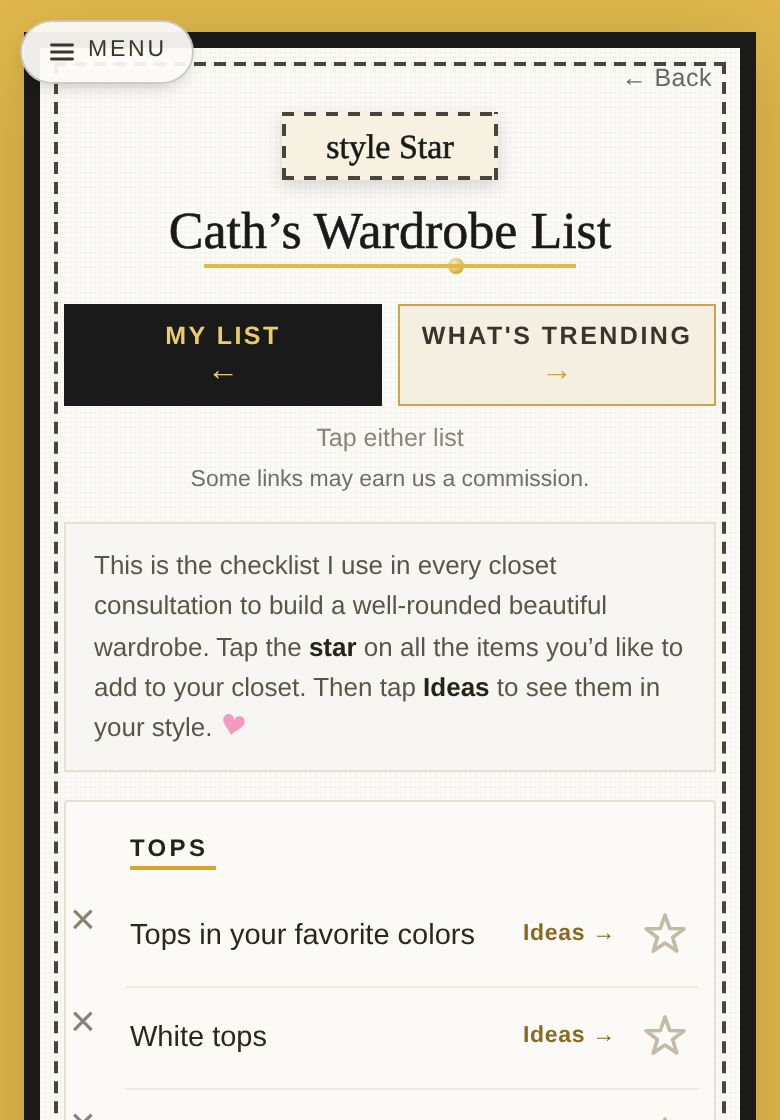
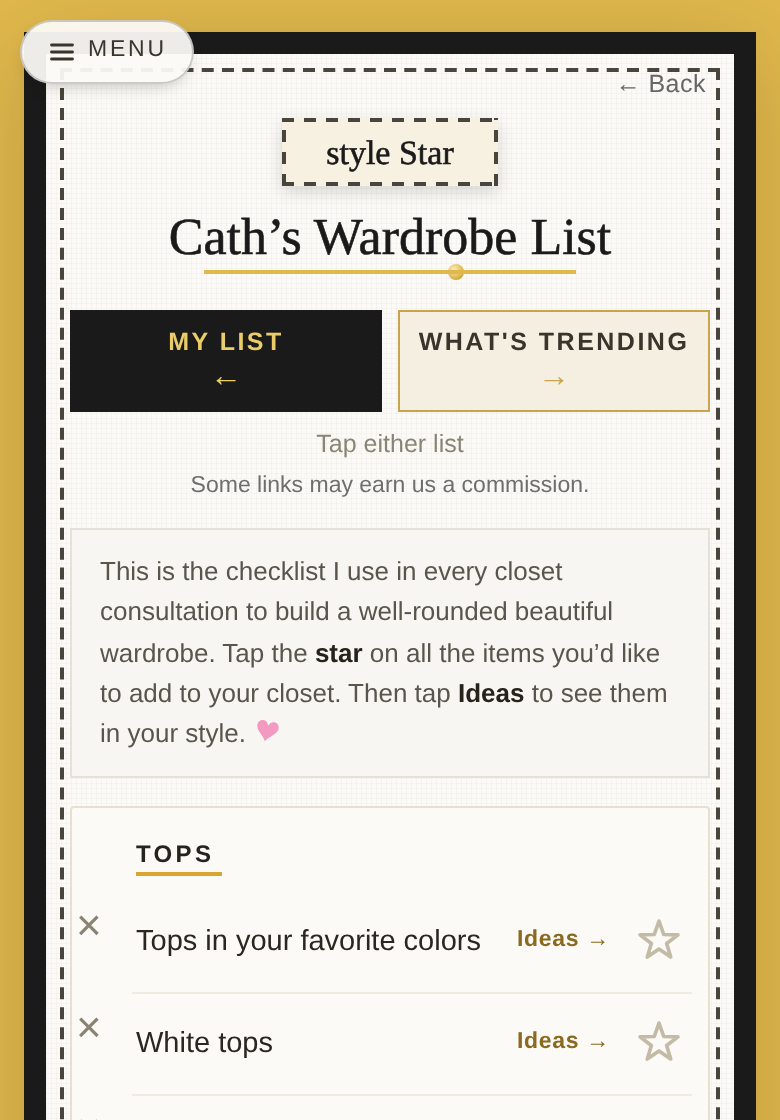
Wardrobe frame to 11px, the app's boutique weight (#810)
Her question: should the list/trending frames be thicker, maybe 11px like My
Story? Yes, and 11px is already the app's boutique weight, shared by My Story
and Shop your Style. Three surfaces now agree.

Two things the measurement decided.

1. The rule is shared with the wishlist, but the wishlist is NOT bumped. Its
   frame is already compound, 8px black plus the 5px gold rail band inside it,
   so roughly 13px of visual frame. It already reads at least as thick as the
   wardrobe's new 11, and the two will look more consistent after this, not
   less. Bumping it would also have cost 6px of content width on the one
   surface that cannot spare it: the empty-state wishing button, measured this
   morning at 11px of headroom, which 11px of frame would have cut to 5px, the
   variance zone that broke the tagline on her real phone.

2. A thicker frame costs 6px of row width, and that made item names wrap at
   375 (2 to 4 of them, depending on how they are counted). Extending the
   existing narrow-width row trim from 374px up to 389px gives the space back.
   Measured after the change: 0 names wrap at 390 AND at 375, so nothing
   regresses and the frame is thicker. 360 keeps its own long-standing wrap.

Verified: velvet 32 green, plus the name-wrap sweep at 390/375/360 with no
sideways overflow at any width.

Claude-Session: https://claude.ai/code/session_015YyXAYypxt8fZH3TEVX95i

diff --git a/scratchpad/framefit.js b/scratchpad/framefit.js
@@ -1,0 +1,66 @@
+// Her question: should the wardrobe/wishlist frame go 8px -> 11px, matching
+// My Story and Shop your Style?
+//
+// ⚠ The rule is SHARED by .ss.wardrobe-mirror and .ss.wishlist-mirror, so any
+// change hits Your Wishlist too -- and a thicker border eats content width.
+// This morning the wishlist empty-state button was measured as needing 249px
+// with 260px available (11px headroom). Every 1px of border costs 2px of width,
+// so 11px would leave 5px -- inside the browser text-measurement variance that
+// broke the tagline on her real phone. Measure it, do not assume.
+const chromium = (await import('/opt/node22/lib/node_modules/playwright/index.js')).default.chromium;
+import http from 'http';
+import fs from 'fs';
+import path from 'path';
+const ROOT = path.resolve(import.meta.dirname, '..');
+const server = http.createServer((req, res) => {
+  const f = path.join(ROOT, req.url === '/' ? 'index.html' : decodeURIComponent(req.url.split('?')[0].slice(1)));
+  if (!f.startsWith(ROOT) || !fs.existsSync(f) || fs.statSync(f).isDirectory()) { res.writeHead(404); return res.end(); }
+  res.writeHead(200); fs.createReadStream(f).pipe(res);
+});
+await new Promise(r => server.listen(0, r));
+const base = 'http://127.0.0.1:' + server.address().port;
+const browser = await chromium.launch({ executablePath: '/opt/pw-browsers/chromium' });
+
+for (const w of [390, 375, 360]) {
+  console.log(`\n=== ${w}px ===`);
+  for (const px of [8, 9, 10, 11]) {
+    const page = await browser.newPage({ viewport: { width: w, height: 800 } });
+    await page.goto(base + '/', { waitUntil: 'load' });
+    await page.evaluate(() => localStorage.setItem('ss_data', JSON.stringify({ userName: 'Cath', answers: Array(12).fill(6), topArchNames: ['Timeless Classic'], portrait: 'x', motto: 'y' })));
+    await page.reload({ waitUntil: 'load' });
+    await page.waitForTimeout(2600);
+    const r = await page.evaluate(async (px) => {
+      const st = document.createElement('style');
+      st.textContent = `.ss.wardrobe-mirror,.ss.wishlist-mirror{border-width:${px}px!important}`;
+      document.head.appendChild(st);
+      // the wishlist empty state is the width-critical surface
+      openWishlist();
+      await new Promise(r => setTimeout(r, 600));
+      const btn = document.querySelector('#s-wishlist .we-addlnk');
+      const span = btn.querySelector('.wab-t');
+      const wrap = btn.parentElement;
+      const avail = Math.floor(wrap.getBoundingClientRect().width);
+      const c = span.cloneNode(true);
+      c.style.cssText = 'position:absolute;white-space:nowrap;visibility:hidden;left:-9999px';
+      c.style.font = getComputedStyle(span).font;
+      c.style.letterSpacing = getComputedStyle(span).letterSpacing;
+      document.body.appendChild(c);
+      const need = Math.ceil(c.getBoundingClientRect().width) + 18; // + padding & borders
+      c.remove();
+      const rg = document.createRange(); rg.selectNodeContents(span);
+      const lines = [...new Set([...rg.getClientRects()].map(x => Math.round(x.top)))].length;
+      // and the wardrobe's own content width
+      openWardrobe('list');
+      await new Promise(r => setTimeout(r, 500));
+      const row = document.querySelector('#s-wardrobe .wdr-item');
+      return {
+        avail, need, headroom: avail - need, lines,
+        wdrRow: row ? Math.round(row.getBoundingClientRect().width) : null,
+      };
+    }, px);
+    const verdict = r.lines === 1 ? (r.headroom >= 10 ? 'SAFE' : 'THIN — inside browser variance') : 'WRAPS';
+    console.log(`  frame ${px}px -> wishlist button ${r.avail}px avail / ${r.need}px needed, headroom ${r.headroom}px, ${r.lines} line(s)  [${verdict}]   wardrobe row ${r.wdrRow}px`);
+    await page.close();
+  }
+}
+await browser.close(); server.close();

diff --git a/scratchpad/frame11.js b/scratchpad/frame11.js
@@ -1,0 +1,36 @@
+const chromium = (await import('/opt/node22/lib/node_modules/playwright/index.js')).default.chromium;
+import http from 'http'; import fs from 'fs'; import path from 'path';
+const ROOT = path.resolve(import.meta.dirname, '..');
+const server = http.createServer((req,res)=>{const f=path.join(ROOT, req.url==='/'?'index.html':decodeURIComponent(req.url.split('?')[0].slice(1)));if(!f.startsWith(ROOT)||!fs.existsSync(f)||fs.statSync(f).isDirectory()){res.writeHead(404);return res.end();}res.writeHead(200);fs.createReadStream(f).pipe(res);});
+await new Promise(r=>server.listen(0,r));
+const base='http://127.0.0.1:'+server.address().port;
+const browser=await chromium.launch({executablePath:'/opt/pw-browsers/chromium'});
+for(const w of [390,375,360]){
+  const page=await browser.newPage({viewport:{width:w,height:820},deviceScaleFactor:2});
+  await page.goto(base+'/',{waitUntil:'load'});
+  await page.evaluate(()=>localStorage.setItem('ss_data',JSON.stringify({userName:'Cath',answers:Array(12).fill(6),topArchNames:['Timeless Classic'],portrait:'x',motto:'y'})));
+  await page.reload({waitUntil:'load'});await page.waitForTimeout(2600);
+  const r=await page.evaluate(async()=>{
+    openWardrobe('list'); await new Promise(r=>setTimeout(r,700));
+    let wrapped=0,checked=0;
+    for(const n of document.querySelectorAll('#s-wardrobe .wdr-item')){
+      const t=n.querySelector('.wdr-name')||n; const txt=t.childNodes[0];
+      if(!txt||txt.nodeType!==3) continue;
+      const rg=document.createRange(); rg.selectNodeContents(t); checked++;
+      if([...new Set([...rg.getClientRects()].map(x=>Math.round(x.top)))].length>1) wrapped++;
+    }
+    const b=getComputedStyle(document.querySelector('.ss')).borderTopWidth;
+    const wl=await (async()=>{openWishlist();await new Promise(r=>setTimeout(r,500));
+      return getComputedStyle(document.querySelector('.ss')).borderTopWidth;})();
+    return {wrapped,checked,wardrobeFrame:b,wishlistFrame:wl,over:document.documentElement.scrollWidth>window.innerWidth};
+  });
+  console.log(`${w}: wardrobe frame ${r.wardrobeFrame}, wishlist frame ${r.wishlistFrame}, ${r.wrapped}/${r.checked} names wrap, overflow ${r.over}`);
+  if(w===390){
+    await page.evaluate(()=>openWardrobe('list')); await page.waitForTimeout(600);
+    await page.screenshot({path:path.join(ROOT,'scratchpad','frame11-list.png'),clip:{x:0,y:0,width:w,height:520}});
+    await page.evaluate(()=>wardrobeTab('trend')); await page.waitForTimeout(500);
+    await page.screenshot({path:path.join(ROOT,'scratchpad','frame11-trend.png'),clip:{x:0,y:0,width:w,height:520}});
+  }
+  await page.close();
+}
+await browser.close();server.close();

diff --git a/scratchpad/framefix.js b/scratchpad/framefix.js
@@ -1,0 +1,32 @@
+const chromium = (await import('/opt/node22/lib/node_modules/playwright/index.js')).default.chromium;
+import http from 'http'; import fs from 'fs'; import path from 'path';
+const ROOT = path.resolve(import.meta.dirname, '..');
+const server = http.createServer((req,res)=>{const f=path.join(ROOT, req.url==='/'?'index.html':decodeURIComponent(req.url.split('?')[0].slice(1)));if(!f.startsWith(ROOT)||!fs.existsSync(f)||fs.statSync(f).isDirectory()){res.writeHead(404);return res.end();}res.writeHead(200);fs.createReadStream(f).pipe(res);});
+await new Promise(r=>server.listen(0,r));
+const base='http://127.0.0.1:'+server.address().port;
+const browser=await chromium.launch({executablePath:'/opt/pw-browsers/chromium'});
+for(const w of [390,375,360]){
+  const page=await browser.newPage({viewport:{width:w,height:800}});
+  await page.goto(base+'/',{waitUntil:'load'});
+  await page.evaluate(()=>localStorage.setItem('ss_data',JSON.stringify({userName:'Cath',answers:Array(12).fill(6),topArchNames:['Timeless Classic'],portrait:'x',motto:'y'})));
+  await page.reload({waitUntil:'load'});await page.waitForTimeout(2600);
+  const r=await page.evaluate(async ()=>{
+    const st=document.createElement('style');
+    st.textContent='.ss.wardrobe-mirror,.ss.wishlist-mirror{border-width:11px!important}#s-wishlist .wl-empty{padding-left:0!important;padding-right:0!important}';
+    document.head.appendChild(st);
+    openWishlist(); await new Promise(r=>setTimeout(r,600));
+    const btn=document.querySelector('#s-wishlist .we-addlnk'), span=btn.querySelector('.wab-t');
+    const avail=Math.floor(btn.parentElement.getBoundingClientRect().width);
+    const c=span.cloneNode(true); c.style.cssText='position:absolute;white-space:nowrap;visibility:hidden;left:-9999px';
+    c.style.font=getComputedStyle(span).font; c.style.letterSpacing=getComputedStyle(span).letterSpacing;
+    document.body.appendChild(c); const need=Math.ceil(c.getBoundingClientRect().width)+18; c.remove();
+    const rg=document.createRange(); rg.selectNodeContents(span);
+    const lines=[...new Set([...rg.getClientRects()].map(x=>Math.round(x.top)))].length;
+    const card=document.querySelector('#s-wishlist .wl-card').getBoundingClientRect();
+    const br=btn.getBoundingClientRect();
+    return {avail,need,head:avail-need,lines,inside:br.left>=card.left-0.5&&br.right<=card.right+0.5};
+  });
+  console.log(`${w}: avail ${r.avail} / need ${r.need} -> headroom ${r.head}px, ${r.lines} line(s), inside card: ${r.inside}`);
+  await page.close();
+}
+await browser.close();server.close();

diff --git a/scratchpad/wdrnames2.js b/scratchpad/wdrnames2.js
@@ -1,0 +1,35 @@
+const chromium = (await import('/opt/node22/lib/node_modules/playwright/index.js')).default.chromium;
+import http from 'http'; import fs from 'fs'; import path from 'path';
+const ROOT = path.resolve(import.meta.dirname, '..');
+const server = http.createServer((req,res)=>{const f=path.join(ROOT, req.url==='/'?'index.html':decodeURIComponent(req.url.split('?')[0].slice(1)));if(!f.startsWith(ROOT)||!fs.existsSync(f)||fs.statSync(f).isDirectory()){res.writeHead(404);return res.end();}res.writeHead(200);fs.createReadStream(f).pipe(res);});
+await new Promise(r=>server.listen(0,r));
+const base='http://127.0.0.1:'+server.address().port;
+const browser=await chromium.launch({executablePath:'/opt/pw-browsers/chromium'});
+const CASES=[
+  {n:'10px, no trim change', css:'.ss.wardrobe-mirror{border-width:10px!important}'},
+  {n:'11px, no trim change', css:'.ss.wardrobe-mirror{border-width:11px!important}'},
+  {n:'11px + trim extended to 389', css:'.ss.wardrobe-mirror{border-width:11px!important}@media(max-width:389px){#s-wardrobe .wdr-item{gap:0 6px;padding-left:0;padding-right:0}}'},
+];
+for(const w of [390,375]){
+  for(const c of CASES){
+    const page=await browser.newPage({viewport:{width:w,height:900}});
+    await page.goto(base+'/',{waitUntil:'load'});
+    await page.evaluate(()=>localStorage.setItem('ss_data',JSON.stringify({userName:'Cath',answers:Array(12).fill(6),topArchNames:['Timeless Classic'],portrait:'x',motto:'y'})));
+    await page.reload({waitUntil:'load'});await page.waitForTimeout(2600);
+    const r=await page.evaluate(async(css)=>{
+      const st=document.createElement('style'); st.textContent=css; document.head.appendChild(st);
+      openWardrobe('list'); await new Promise(r=>setTimeout(r,700));
+      let wrapped=0,checked=0;
+      for(const n of document.querySelectorAll('#s-wardrobe .wdr-item')){
+        const t=n.querySelector('.wdr-name')||n; const txt=t.childNodes[0];
+        if(!txt||txt.nodeType!==3) continue;
+        const rg=document.createRange(); rg.selectNodeContents(t);
+        checked++; if([...new Set([...rg.getClientRects()].map(x=>Math.round(x.top)))].length>1) wrapped++;
+      }
+      return {wrapped,checked};
+    },c.css);
+    console.log(`${w}  ${c.n.padEnd(30)} -> ${r.wrapped}/${r.checked} wrap`);
+    await page.close();
+  }
+}
+await browser.close();server.close();

diff --git a/scratchpad/wdrnames.js b/scratchpad/wdrnames.js
@@ -1,0 +1,37 @@
+const chromium = (await import('/opt/node22/lib/node_modules/playwright/index.js')).default.chromium;
+import http from 'http'; import fs from 'fs'; import path from 'path';
+const ROOT = path.resolve(import.meta.dirname, '..');
+const server = http.createServer((req,res)=>{const f=path.join(ROOT, req.url==='/'?'index.html':decodeURIComponent(req.url.split('?')[0].slice(1)));if(!f.startsWith(ROOT)||!fs.existsSync(f)||fs.statSync(f).isDirectory()){res.writeHead(404);return res.end();}res.writeHead(200);fs.createReadStream(f).pipe(res);});
+await new Promise(r=>server.listen(0,r));
+const base='http://127.0.0.1:'+server.address().port;
+const browser=await chromium.launch({executablePath:'/opt/pw-browsers/chromium'});
+// how many wardrobe item names wrap, at 8px vs 11px frame?
+for(const w of [390,375,360]){
+  const out=[];
+  for(const px of [8,11]){
+    const page=await browser.newPage({viewport:{width:w,height:900}});
+    await page.goto(base+'/',{waitUntil:'load'});
+    await page.evaluate(()=>localStorage.setItem('ss_data',JSON.stringify({userName:'Cath',answers:Array(12).fill(6),topArchNames:['Timeless Classic'],portrait:'x',motto:'y'})));
+    await page.reload({waitUntil:'load'});await page.waitForTimeout(2600);
+    const r=await page.evaluate(async(px)=>{
+      const st=document.createElement('style');
+      st.textContent=`.ss.wardrobe-mirror{border-width:${px}px!important}`;
+      document.head.appendChild(st);
+      openWardrobe('list'); await new Promise(r=>setTimeout(r,700));
+      const names=[...document.querySelectorAll('#s-wardrobe .wdr-item .wdr-name, #s-wardrobe .wdr-item')];
+      let wrapped=0, checked=0;
+      for(const n of names){
+        const t=n.querySelector('.wdr-name')||n;
+        const txt=t.childNodes[0]; if(!txt||txt.nodeType!==3) continue;
+        const rg=document.createRange(); rg.selectNodeContents(t);
+        const tops=[...new Set([...rg.getClientRects()].map(x=>Math.round(x.top)))].length;
+        checked++; if(tops>1) wrapped++;
+      }
+      return {wrapped,checked,overflow:document.documentElement.scrollWidth>window.innerWidth};
+    },px);
+    out.push(`${px}px: ${r.wrapped}/${r.checked} names wrap, sideways overflow: ${r.overflow}`);
+    await page.close();
+  }
+  console.log(`${w} -> ${out.join('   |   ')}`);
+}
+await browser.close();server.close();

diff --git a/index.html b/index.html
@@ -155,6 +155,15 @@ html.shop-brick,body.shop-brick{background-size:90px 54px;background-color:#F2EF
   background-color:#FBFAF7;
   background-image:repeating-linear-gradient(90deg,rgba(150,140,120,.06) 0 .5px,transparent .5px 2.5px),repeating-linear-gradient(0deg,rgba(150,140,120,.05) 0 .5px,transparent .5px 2.5px);
   box-shadow:0 8px 44px rgba(0,0,0,.16)}
+/* Her ask (2026-08-10): the wardrobe frame goes to 11px, the app's boutique
+   weight -- the same as My Story and Shop your Style.
+   ▶ Scoped to the WARDROBE deliberately, even though the rule above is shared.
+   The wishlist's frame is already compound (8px black PLUS the 5px gold rail
+   band inside it, so ~13px of visual frame), which means it already reads at
+   least as thick. Bumping it too would have made it heavier still AND cost 6px
+   of content width on the one surface that cannot spare it -- the empty-state
+   wishing button, measured at only 11px of headroom. */
+.ss.wardrobe-mirror{border-width:11px}
 .ss.wardrobe-mirror::before,.ss.wishlist-mirror::before{content:"";position:absolute;top:7px;right:7px;bottom:7px;left:7px;border:2px dashed #4a453c;pointer-events:none;z-index:3}
 /* HER FRAME (2026-08-09, "I love it, build it"): the wishlist page goes
    full-bleed BLACK to every screen edge (body.wl-velvet below, toggled in
@@ -300,7 +309,7 @@ html.wdr-black .ss.wardrobe-mirror{border-color:#E0B84C}
    names wrapped to two lines. Reclaiming a little row padding and gap fixes
    most of them WITHOUT shrinking the text -- readability matters more here
    than a perfectly even list. Wider phones are untouched. */
-@media(max-width:374px){#s-wardrobe .wdr-item{gap:0 6px;padding-left:0;padding-right:0}}
+@media(max-width:389px){#s-wardrobe .wdr-item{gap:0 6px;padding-left:0;padding-right:0}}
 /* Catherine's line on anchor pieces — the "oh, I really need that" moment. Only
    ~20 items carry one, so they read as her speaking up, not as page furniture. */
 #s-wardrobe .wdr-note{display:block;font:italic 400 12.5px/1.35 'Fraunces',Georgia,serif;color:#8a7a52;margin-top:3px;padding-right:4px}
